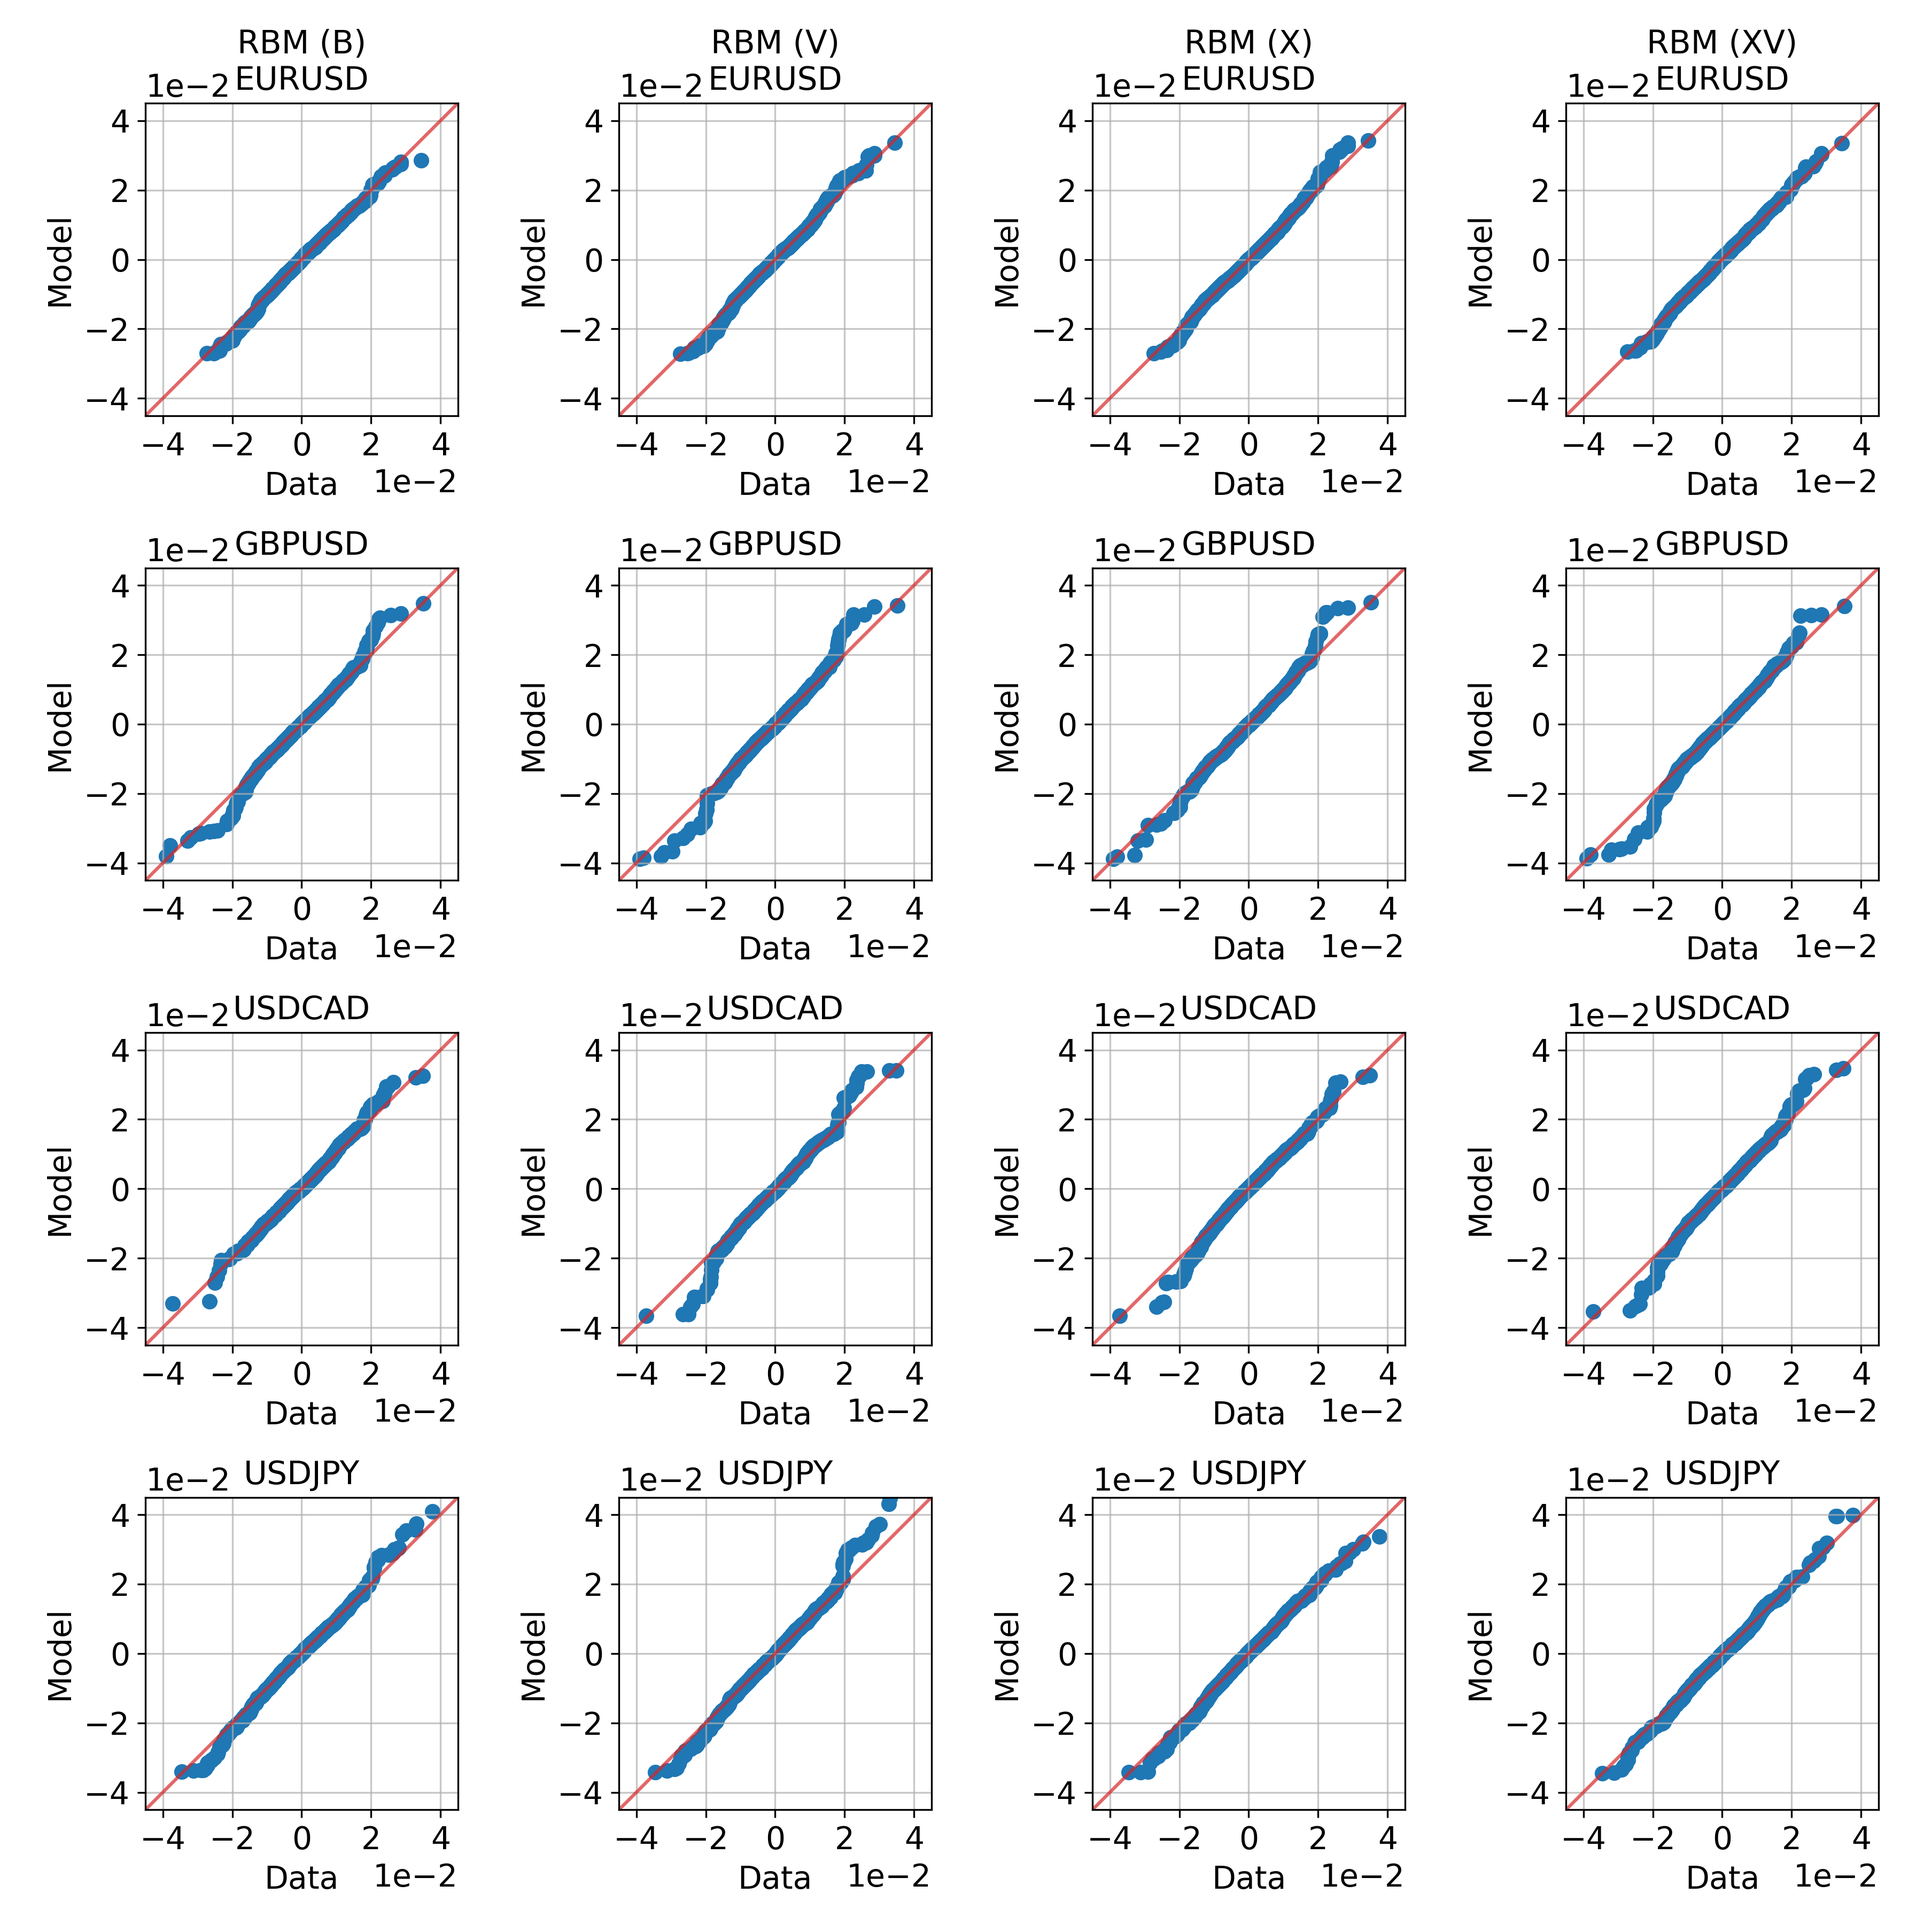
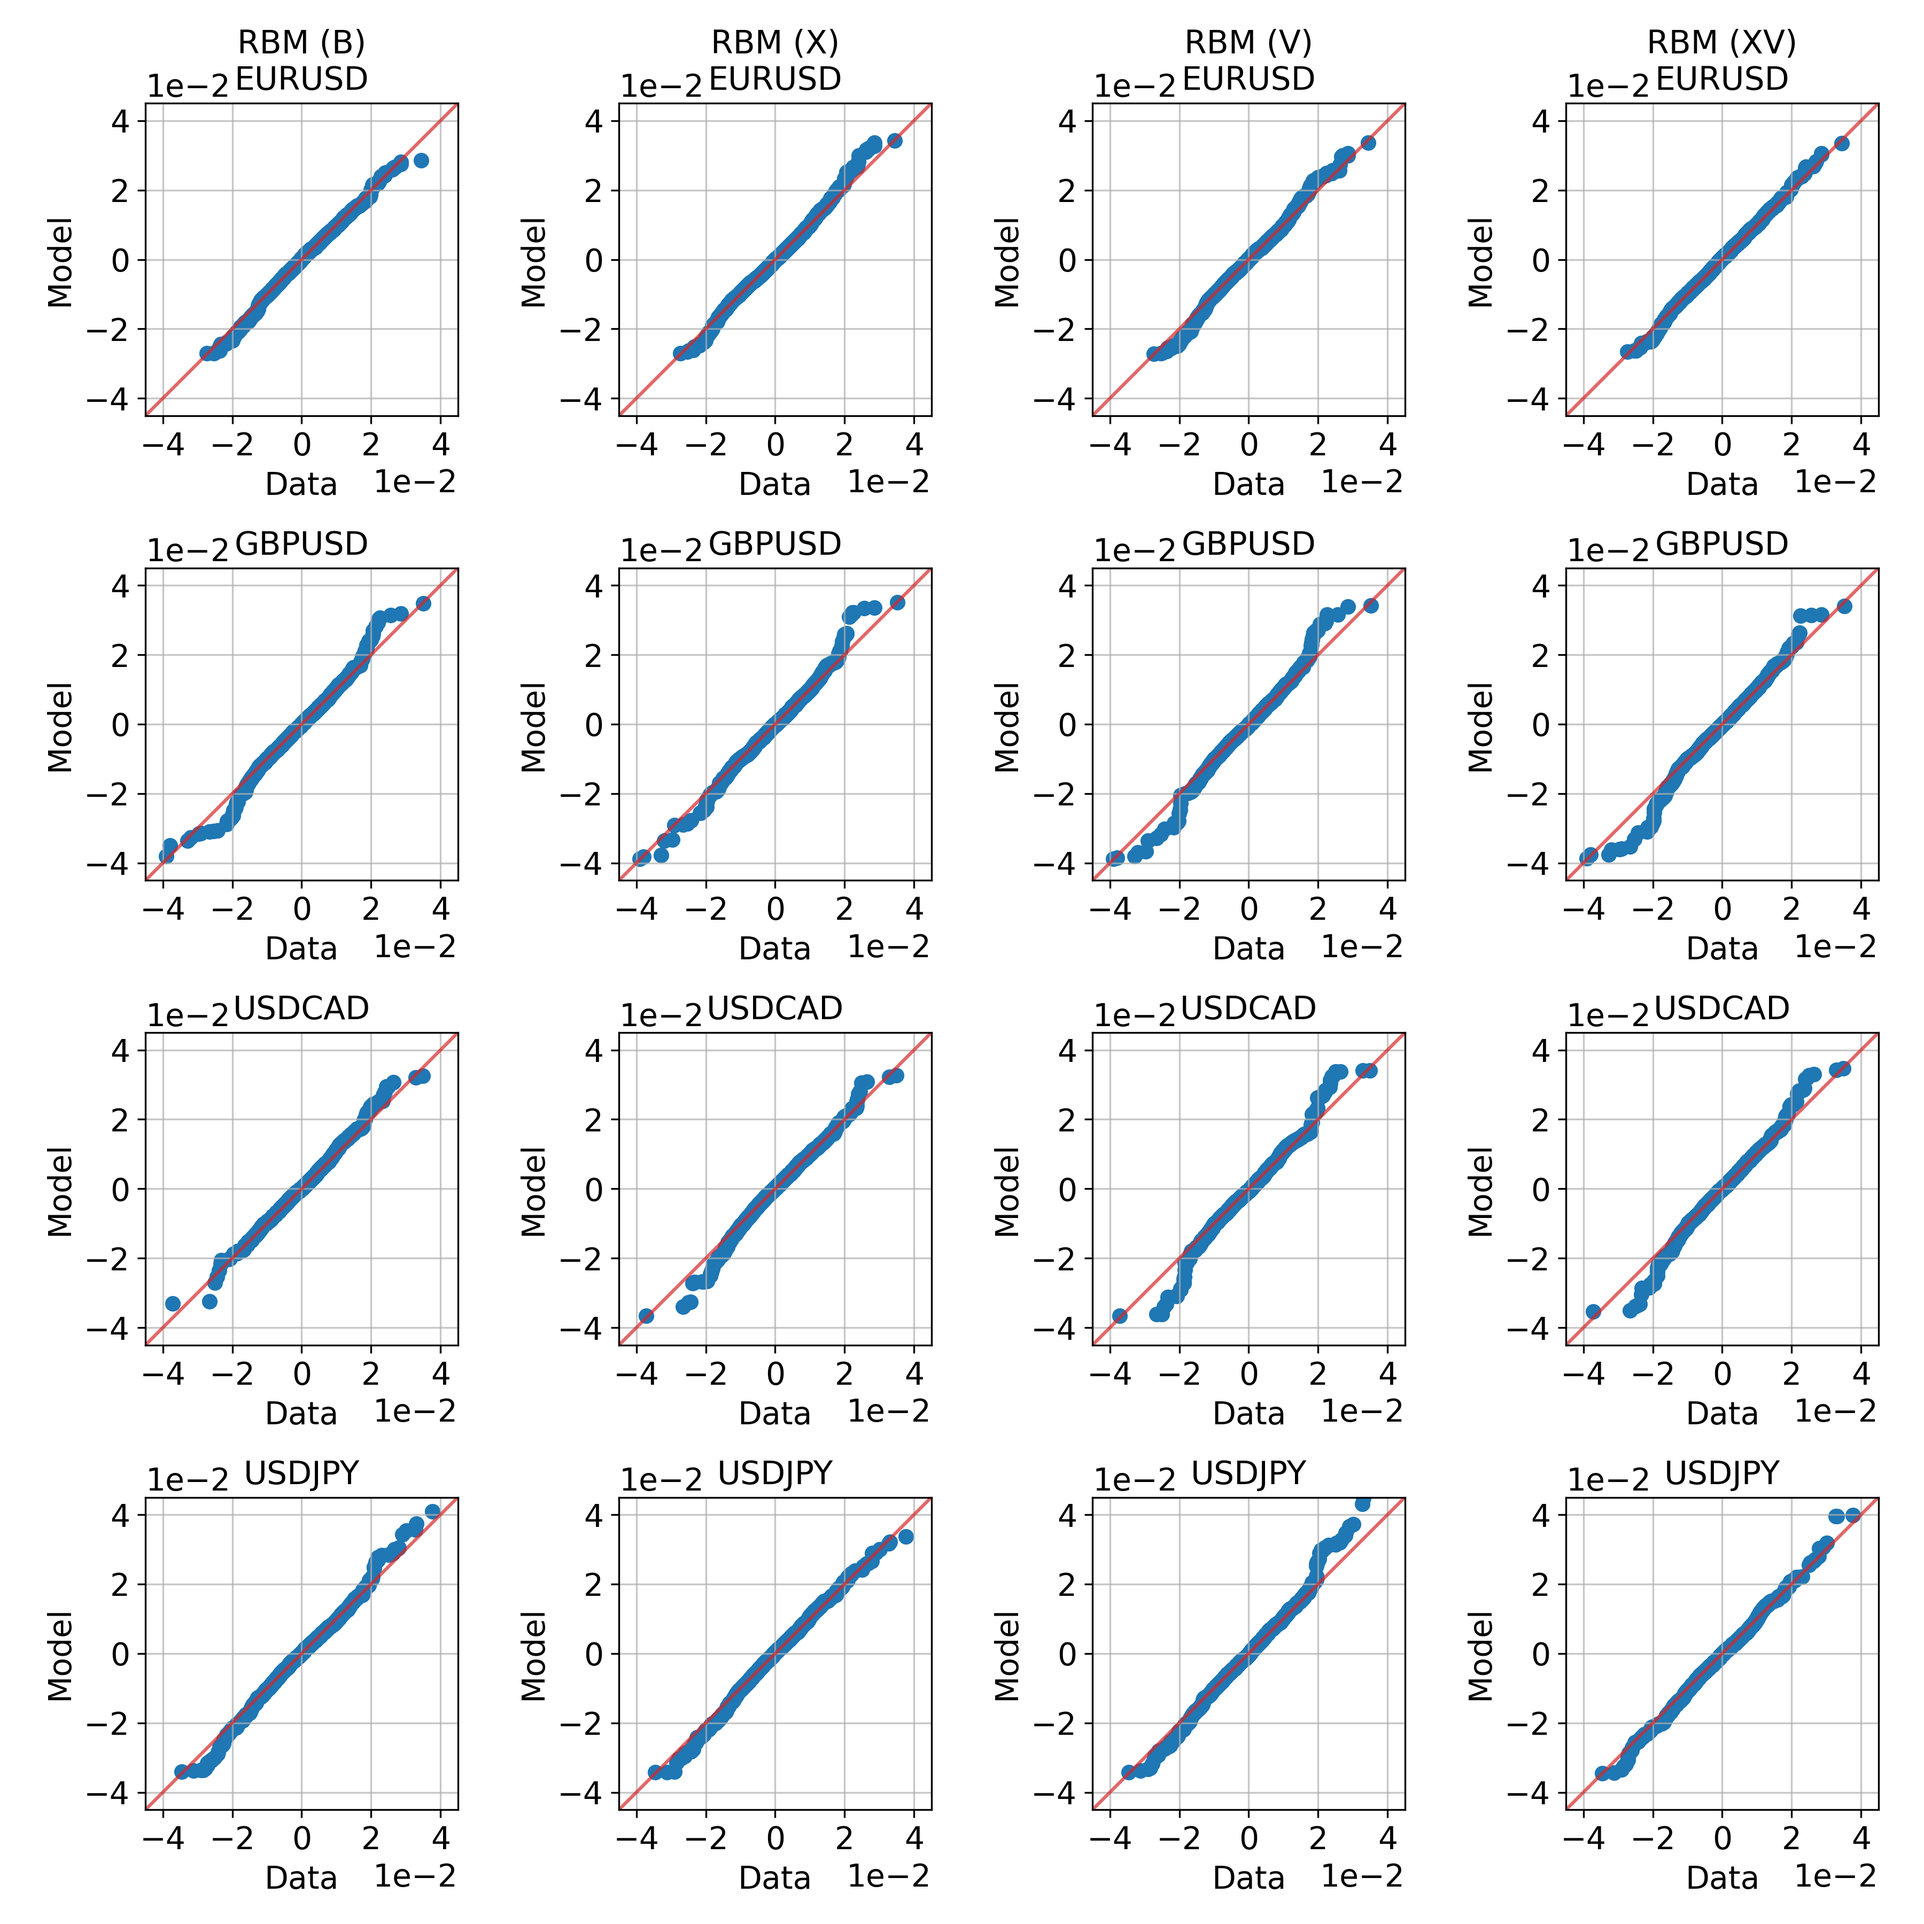
Updated rbm plots and tables

diff --git a/scripts/rbm/prepare_results.py b/scripts/rbm/prepare_results.py
@@ -204,8 +204,8 @@ Plotting
 colors = {
     "Data": "tab:cyan",
     "RBM (B)": "tab:blue",
-    "RBM (V)": "tab:red",
     "RBM (X)": "tab:orange",
+    "RBM (V)": "tab:red",
     "RBM (XV)": "tab:green",
 }
 
@@ -249,7 +249,7 @@ dkls = pd.concat(dkls.values(), axis=1).applymap(str_map, digits=3)
 print("dkls")
 print(dkls)
 
-prefixes = ("B", "V", "X", "XV")
+prefixes = ("B", "X", "V", "XV")
 table = [
     r"\begin{tabular}{l r r r r}",
     r"\multicolumn{5}{c}{\(D_{\text{KL}}(p_\text{data} \ || \ p_\text{model})\)} \\",
@@ -313,7 +313,7 @@ for pair in ccs.index:
     row += r" \\"
     table.append(row)
 
-prefixes = ("V", "X")
+prefixes = ("X", "V")
 cc_names = ("Pearson", "Spearman", "Kendall")
 table += [
     r"\midrule",
@@ -376,7 +376,7 @@ volatilities = pd.concat(volatilities.values(), axis=1).applymap(
 print("Volatilities")
 print(volatilities)
 
-prefixes = ("B", "V", "X", "XV")
+prefixes = ("B", "X", "V", "XV")
 table = [
     r"\begin{tabular}{l r r r r r}",
     r"\multicolumn{6}{c}{\textbf{Historical Volatilities}} \\",
@@ -458,7 +458,7 @@ tails = pd.concat(tails.values(), axis=1).applymap(str_map, digits=2, factor=100
 print("Tails")
 print(tails)
 
-prefixes = ("B", "V", "X", "XV")
+prefixes = ("B", "X", "V", "XV")
 table = [
     r"\begin{tabular}{l r r r r r}",
     r"\multicolumn{6}{c}{\textbf{Lower Tails (1st Percentile)}} \\",
@@ -515,7 +515,7 @@ ac_times = pd.concat(ac_times.values(), axis=1).applymap(str_map, digits=1)
 print("Autocorrelation Times")
 print(ac_times)
 
-prefixes = ("B", "V", "X", "XV")
+prefixes = ("B", "X", "V", "XV")
 table = [
     r"\begin{tabular}{l r r r r}",
     r"\multicolumn{5}{c}{\textbf{Integrated Autocorrelation Times}} \\",
